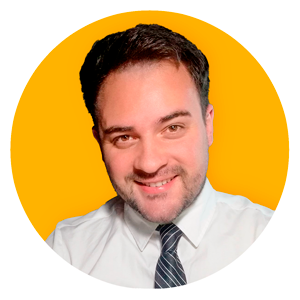
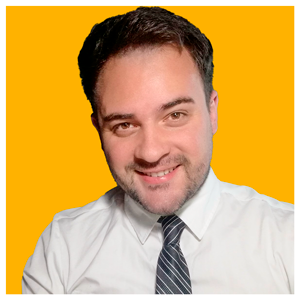
27th commit: new thumbnail for Whatsapp link sharing.

diff --git a/index_es.html b/index_es.html
@@ -24,16 +24,17 @@
     <!-- Meta tags -->
     <meta name="googlebot" content="notranslate">
     <meta name="keywords" content="HTML, CSS, Java, trainee, web developer, Mauro Montenegro Guzmán, junior, python">
+    <!-- WhatsApp og image (square)-->
+    <meta property="og:image" content="https://mauromontenegro.github.io/thumbnail.png">
+    <meta property="og:image:width" content="300" />
+    <meta property="og:image:height" content="300" />
+    <meta property="og:image:type" content="image/png">
     <!-- Facebook og image (rectangular) -->
     <meta property="og:image" content="https://mauromontenegro.github.io/thumbnail-1200-630.png">
     <meta property="og:image:width" content="1200" />
     <meta property="og:image:height" content="630" />
     <meta property="og:image:type" content="image/png">
-    <!-- WhatsApp og image (square)-->
-    <meta property="og:image" content="https://mauromontenegro.github.io/thumbnail-400.png">
-    <meta property="og:image:width" content="400" />
-    <meta property="og:image:height" content="400" />
-    <meta property="og:image:type" content="image/png">
+
     <!-- Linkedin og image (rectangular) -->
     <meta property="og:image" content="https://mauromontenegro.github.io/thumbnail-1200-627.png">
     <meta property="og:image:width" content="1200" />

diff --git a/index.html b/index.html
@@ -24,15 +24,15 @@
     <!-- Meta tags -->
     <meta name="googlebot" content="notranslate">
     <meta name="keywords" content="HTML, CSS, Java, trainee, web developer, Mauro Montenegro Guzmán, junior, python">
+    <!-- WhatsApp og image (square)-->
+    <meta property="og:image" content="https://mauromontenegro.github.io/thumbnail.png">
+    <meta property="og:image:width" content="300" />
+    <meta property="og:image:height" content="300" />
+    <meta property="og:image:type" content="image/png">
     <!-- Facebook og image (rectangular) -->
     <meta property="og:image" content="https://mauromontenegro.github.io/thumbnail-1200-630.png">
     <meta property="og:image:width" content="1200" />
     <meta property="og:image:height" content="630" />
-    <meta property="og:image:type" content="image/png">
-    <!-- WhatsApp og image (square)-->
-    <meta property="og:image" content="https://mauromontenegro.github.io/thumbnail-400.png">
-    <meta property="og:image:width" content="400" />
-    <meta property="og:image:height" content="400" />
     <meta property="og:image:type" content="image/png">
     <!-- Linkedin og image (rectangular) -->
     <meta property="og:image" content="https://mauromontenegro.github.io/thumbnail-1200-627.png">
